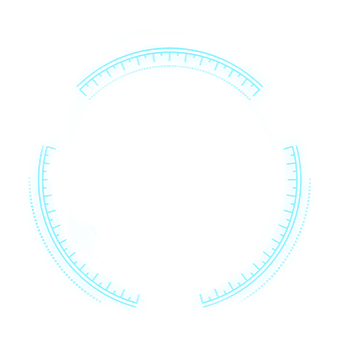
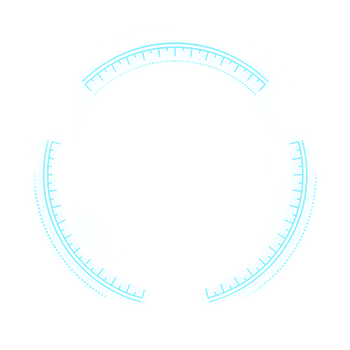
jhy

Changed region(s): [[0.2059, 0.1143, 0.7647, 0.2857], [0.5882, 0.4, 0.9118, 0.8857], [0.0882, 0.4, 0.4118, 0.8857]]

diff --git a/src/style/jhy/icon/iconfont.js b/src/style/jhy/icon/iconfont.js
@@ -1,0 +1,1 @@
+!function(d){var e,i='<svg><symbol id="icon-erweima" viewBox="0 0 1024 1024"><path d="M178.3 540.9v-60.3H118v60.3h60.3z m20 284.1h121.3V702.4H198.3V825z m343.1-545.2h-60.7v60.1h60.7v-60.1z m-221.7-81.1H198.3v122.6h121.3V198.7z m362.4 423.4h-60.2v60.1h181v-60.1h-60v-60.9h-60.7v60.9zM541.4 117.8h-60.7V239h60.7V117.8z m-0.3 463.9h60.7v-59.8h60.4v-61.4h-60.7v60.4h-60.4v60.8z m201.8 201.5V723h-60.7v60.1h60.7z m60.4-282.4h-60.7v60.1h60.7v-60.1zM420.1 98.2H97.7V420h322.4V98.2zM380.2 380H138.3V138.8h241.9V380z m463.1 160.8H904v-58.9h-60.7v58.9z m0 302.5h-40v-59.8h-60.7v59.8h-60.5v61.4H904v-59.2h0.1V722.4h-60.7v120.9z m0-161.5H904v-60.1h-60.7v60.1z m-19.9-483.1H702v122.6h121.3V198.7zM601.7 98.2V420h322.4V98.2H601.7zM883.6 380H641.7V138.8h241.9V380zM541.4 722.1h60.4v-58.9h-60.4v-81.4h-60.7v321.4h60.4v0.8h60.7v-60.1h-60.4V722.1zM238.9 541.6h201.7v-61H238.9v61z m302.5-161.3h-61v60.1h61v-60.1zM601.5 843h60.7v-60.1h-60.7V843zM97.6 924.1H420V602.3H97.6v321.8z m40.7-281.2h241.9v241.2H138.3V642.9z"  ></path></symbol><symbol id="icon-diannao" viewBox="0 0 1024 1024"><path d="M125.5 381.8L65.2 319V135.5s0-64.1 62.8-64.1h763.9s64.1 0 62.8 64.1v560.4s0 62.8-62.8 62.8h-260l2.5 130.7-194.8-193.5h452.3V135.5H125.5v246.3z m0 0"  ></path><path d="M244.9 494.8V233.5h522.7v364.4h-426zM634.4 889.4h175.9s46.5 30.2 0 60.3H694.7l-60.3-60.3z"  ></path></symbol></svg>',t=(e=document.getElementsByTagName("script"))[e.length-1].getAttribute("data-injectcss");if(t&&!d.__iconfont__svg__cssinject__){d.__iconfont__svg__cssinject__=!0;try{document.write("<style>.svgfont {display: inline-block;width: 1em;height: 1em;fill: currentColor;vertical-align: -0.1em;font-size:16px;}</style>")}catch(e){console&&console.log(e)}}!function(e){if(document.addEventListener)if(~["complete","loaded","interactive"].indexOf(document.readyState))setTimeout(e,0);else{var t=function(){document.removeEventListener("DOMContentLoaded",t,!1),e()};document.addEventListener("DOMContentLoaded",t,!1)}else document.attachEvent&&(n=e,h=d.document,o=!1,v=function(){o||(o=!0,n())},(i=function(){try{h.documentElement.doScroll("left")}catch(e){return void setTimeout(i,50)}v()})(),h.onreadystatechange=function(){"complete"==h.readyState&&(h.onreadystatechange=null,v())});var n,h,o,v,i}(function(){var e,t,n,h,o,v;(e=document.createElement("div")).innerHTML=i,i=null,(t=e.getElementsByTagName("svg")[0])&&(t.setAttribute("aria-hidden","true"),t.style.position="absolute",t.style.width=0,t.style.height=0,t.style.overflow="hidden",n=t,(h=document.body).firstChild?(o=n,(v=h.firstChild).parentNode.insertBefore(o,v)):h.appendChild(n))})}(window);

diff --git a/src/style/jhy/css/login.css b/src/style/jhy/css/login.css
@@ -33,17 +33,14 @@ img {
   vertical-align: bottom;
 }
 
-.wrapper {
-  max-width: 1200px;
-  width: 90%;
-  margin: auto;
-  position: relative;
+.logcont {
+  margin-top: 8%;
   box-sizing: border-box;
 }
 
-.logcont {
-  margin-top: 12.667%;
-  height: 45.37%;
+.wrapper {
+  max-width: 1200px;
+  margin: 0 auto;
   position: relative;
   box-sizing: border-box;
 }
@@ -61,7 +58,7 @@ img {
 .layerpic3 {
   position: absolute;
   animation: rightrotate 5s infinite alternate;
-  /* transform-origin: center; */
+  transform-origin: center;
 
   z-index: 1;
 }
@@ -74,7 +71,7 @@ img {
 .layerpic2 {
   position: absolute;
   animation: leftrotate 5s infinite alternate;
-  /* transform-origin: center; */
+  transform-origin: center;
   z-index: 5;
 }
 
@@ -86,7 +83,7 @@ img {
 .layerpic {
   position: absolute;
   animation: rightrotate 5s infinite alternate;
-  /* transform-origin: center; */
+  transform-origin: center;
   z-index: 10;
 }
 
@@ -140,8 +137,7 @@ img {
 }
 
 .turntitle {
-  position: absolute;
-  margin-top: 5%;
+  margin-top: 10%;
   font-size: 40px;
   color: #fff;
   z-index: 20;
@@ -201,7 +197,6 @@ img {
   left: 36px;
   width: 60px;
   height: 60px;
-
 }
 
 .login-qrcode.iconfont {
@@ -277,9 +272,9 @@ img {
   /* margin-bottom: -20px; */
 }
 
-@media screen and (min-width: 1200px) {
+@media screen and (max-width: 1281px) {
   .logcont {
-    margin-top: 3%;
+    margin-top: 2%;
   }
 }
 
@@ -307,11 +302,5 @@ img {
 
   .codewrap {
     margin-top: 53px;
-  }
-}
-
-@media screen and (min-width: 1440px) {
-  .logcont {
-    margin-top: 6%;
   }
 }

diff --git a/src/components/pages/Loginnew.jsx b/src/components/pages/Loginnew.jsx
@@ -184,7 +184,7 @@ class Loginnew extends React.Component {
                 <div className="login-title">{this.state.loginTitle}</div>
                 <div
                   className={
-                    "pwdBtn iconfont login-qrcode" +
+                    " iconfont login-qrcode" +
                     (this.state.typeState ? " icon-diannao " : " icon-erweima")
                   }
                   onClick={this.handlerImg}
